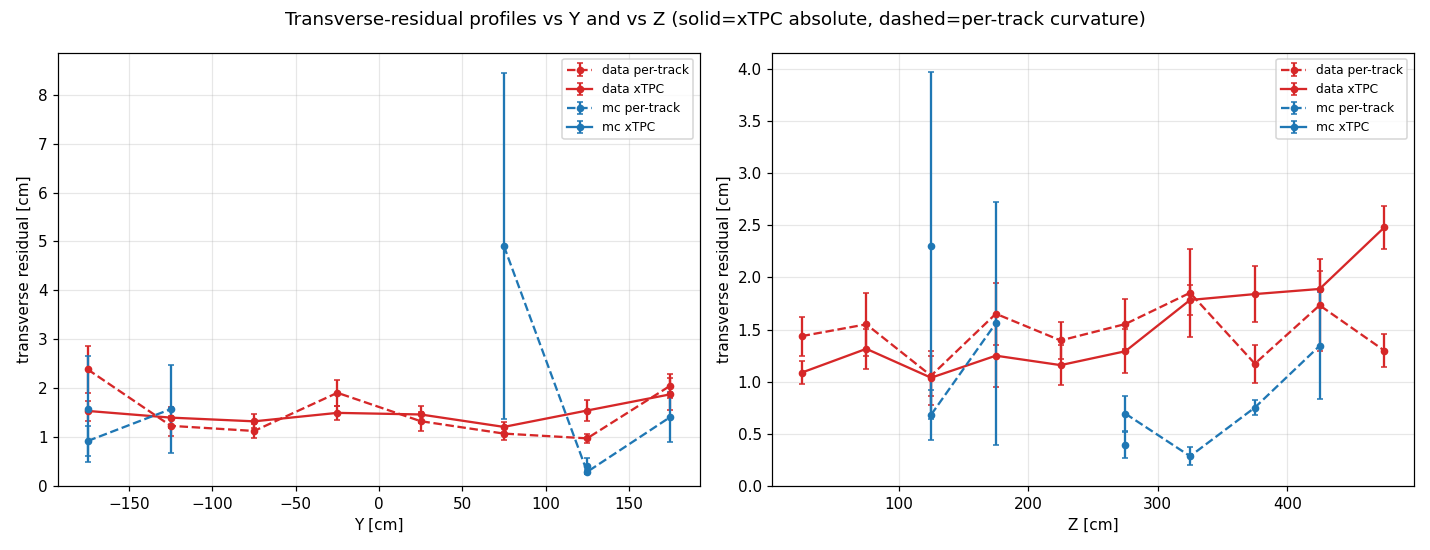
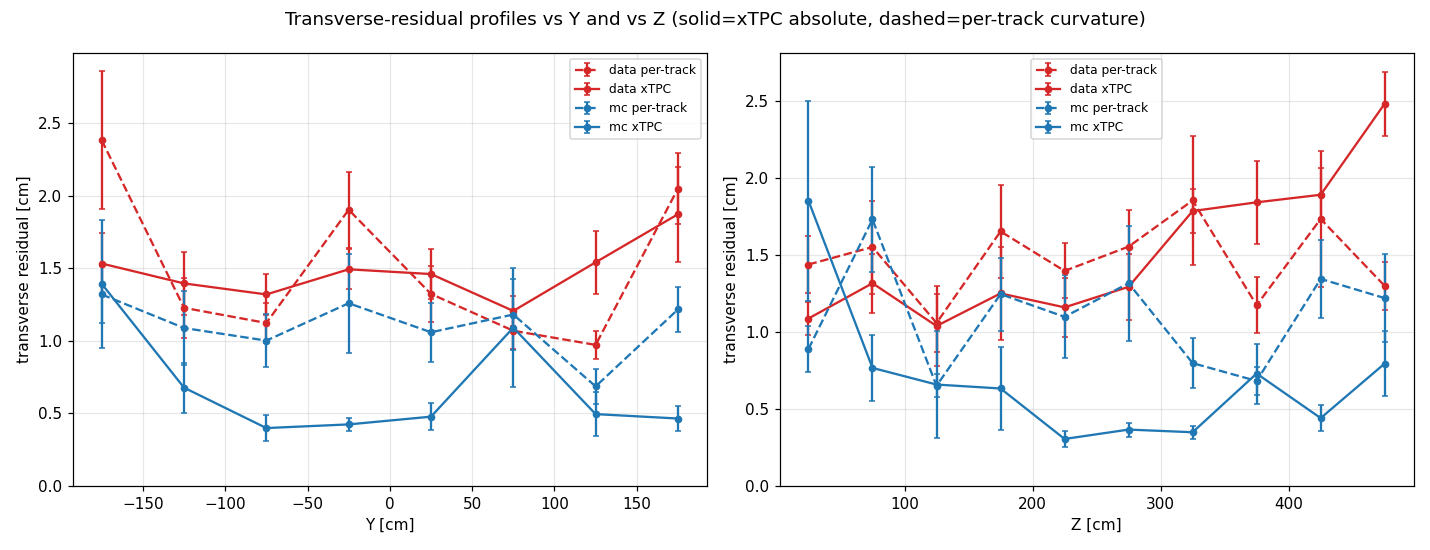
sbnd_xin: high-stats MC baseline (input-10files-mc) + 3D/closest cathode surfaces
Process the 118-event input-10files-mc sample through imaging+clustering+QLMatching
to form a real low-distortion MC baseline (128 MC vs 160 data). The 10 files share
event ids 1-50, so build_mcbase_stage.py remaps them to unique ids (700000+) and
run_mcbase.sh runs the full chain in parallel; _runlib.sh gains a zero-risk
SBND_INPUT_DIR override (default-off) to point the run scripts at the staged dirs.

cathode_distortion.py adds two views requested as inspiration:
  - cathode_surface_3d.png: apparent cathode as a 2-D surface in 3-D (drift residual)
  - cathode_closest_yz.png: per-(Y,Z) closest approach of charge to the cathode (rebinned)

With the MC baseline the data-vs-MC contrast is now robust: xTPC transverse offset
data 1.17 cm vs MC 0.35 cm, rising toward high Z and the |Y| extremes; the closest-
approach map shows data TPC1 charge stopping ~8 cm short at the top-right corner
(Z~450,Y~150) where MC reaches the cathode. Doc updated.

diff --git a/sbnd/sbnd_xin/cathode_distortion.py b/sbnd/sbnd_xin/cathode_distortion.py
@@ -30,6 +30,8 @@ Outputs (pics/):
   cathode_xtpc_perp_yz.png            #4  xTPC transverse offset scatter+quiver (the clean, T0-immune signal)
   cathode_profiles.png                #5  transverse/perp residual vs Y and vs Z
   cathode_furthest_points_yz.png      #6  long-track cathode-most point map, coloured by dx
+  cathode_surface_3d.png              #7  apparent cathode as a 2-D surface in 3-D (drift residual over Y,Z)
+  cathode_closest_yz.png              #8  per-(Y,Z)-bin closest approach of charge to the cathode
 
 Usage:  python3 cathode_distortion.py [-j NPROC]
 """
@@ -50,8 +52,19 @@ HERE = os.path.dirname(os.path.abspath(__file__))
 PICS = os.path.join(HERE, "pics")
 CALIB_GLOB = os.path.join(HERE, "work", "ql_evt*", "calib-evt*.json")
 
-# The 10 MC reference events (run_ql_evt.sh mc); everything else is data.
+# MC reference: the original 10 mc events (small ids) + the input-10files-mc
+# baseline, which run_mcbase.sh remaps to globally-unique ids >= 700000.
+# Everything else (lan-reco2 + input-1file) is data.
 MC_IDS = {2, 9, 11, 12, 14, 18, 31, 35, 41, 42}
+MC_BASELINE_LO = 700000
+
+
+def is_mc(evt_id):
+    return evt_id in MC_IDS or evt_id >= MC_BASELINE_LO
+
+
+# cathode-plane drift position per TPC (cm); constant in the calib geometry block.
+CATHODE_X = {0: -0.45, 1: 0.45}
 
 # (Y,Z) plane extent (cm).  Y vertical, Z beam.
 Y_LO, Y_HI = -200.0, 200.0
@@ -88,17 +101,20 @@ def pca_dir(P):
 def process_event(path):
     """Per-event cathode observables from all auto_selected (matched) tracks.
 
-    Returns (cover, trans, furth, occ):
+    Returns (cover, trans, furth, occ, mind):
       cover : list (apa, y_end, z_end, dx)           cathode-reaching clusters (1 pt each)
       trans : list (apa, y_end, z_end, res_y, res_z) long-track cathode-end off-axis residual
       furth : list (apa, y_end, z_end, dx, extent)   long-track cathode-most point
       occ   : (OY,OZ) histogram of ALL matched-track points in the near-cathode slab
+      mind  : {apa: (OY,OZ)} per-(Y,Z)-bin MIN |x_corr - cathode_x| over all matched-track
+              points = closest approach of charge to the cathode (large ⇒ charge stops short)
     """
     occ = np.zeros((OY, OZ))
+    mind = {0: np.full((OY, OZ), np.inf), 1: np.full((OY, OZ), np.inf)}
     try:
         d = json.load(open(path))
     except Exception:
-        return [], [], [], occ
+        return [], [], [], occ, mind
     drift = d["drift_speed"]                                   # cm/us
     geom = {int(k): v for k, v in d["geometry"].items()}
     ftime = {f["gid"]: f["time"] for f in d["flashes"]}        # us
@@ -128,6 +144,12 @@ def process_event(path):
             if X.size < NPTS_MIN:
                 continue
             dcath = np.abs(X - cath)
+            # closest-approach map: per (Y,Z) bin, MIN |x_corr-cath| over ALL track points
+            inb = (Z >= Z_LO) & (Z < Z_HI) & (Y >= Y_LO) & (Y < Y_HI)
+            if inb.any():
+                iz = ((Z[inb] - Z_LO) / (Z_HI - Z_LO) * OZ).astype(int)
+                iy = ((Y[inb] - Y_LO) / (Y_HI - Y_LO) * OY).astype(int)
+                np.minimum.at(mind[apa], (iy, iz), dcath[inb])
             # slab occupancy: ALL points of this track within the near-cathode band
             slab = dcath < BAND
             if slab.any():
@@ -152,7 +174,7 @@ def process_event(path):
             perp = v - (v @ dirv) * dirv
             if np.hypot(perp[1], perp[2]) <= RES_MAX:
                 trans.append((apa, y_end, z_end, perp[1], perp[2]))
-    return cover, trans, furth, occ
+    return cover, trans, furth, occ, mind
 
 
 # ---------------------------------------------------------------------------
@@ -360,6 +382,62 @@ def plot_profiles(samp, xtpc):
     plt.close(fig)
 
 
+def plot_closest(mind, cy=10, cz=10):
+    """(Y,Z) map of the closest approach of charge to the cathode per bin
+    (min |x_corr - cathode_x|). 0 ⇒ charge reaches the cathode; large ⇒ charge
+    stops short there — a candidate distortion / dead region.  The fine (OY,OZ)
+    min grid is block-reduced to (cy,cz) so each bin aggregates many tracks
+    (otherwise a bin is large simply where no cosmic happened to graze)."""
+    by, bz = OY // cy, OZ // cz                          # block sizes (5x5 for 40x50->8x10? here 4x5)
+    fig, ax = plt.subplots(2, 2, figsize=(13, 9), sharex=True, sharey=True)
+    for r, mode in enumerate(["data", "mc"]):
+        for cc, apa in enumerate([0, 1]):
+            a = ax[r, cc]
+            m = mind[mode][apa].reshape(cy, by, cz, bz).min(axis=(1, 3))
+            m = np.where(np.isfinite(m), m, np.nan)
+            im = a.imshow(m, origin="lower", aspect="auto", extent=extent(),
+                          cmap="turbo", vmin=0, vmax=10)
+            fig.colorbar(im, ax=a, label="closest |x-x_cath| [cm]")
+            corners_annotate(a)
+            a.set_title(f"{mode}  TPC{apa}")
+            a.set_xlabel("Z [cm]"); a.set_ylabel("Y [cm]")
+    fig.suptitle("Closest approach of charge to the cathode per (Y,Z) bin (rebinned) — "
+                 "large = charge stops short (distortion or dead region)")
+    fig.tight_layout()
+    fig.savefig(os.path.join(PICS, "cathode_closest_yz.png"), dpi=110)
+    plt.close(fig)
+
+
+def plot_surface_3d(samp):
+    """The apparent cathode as a 2-D surface in 3-D: mean drift residual
+    dx = x_corr,end - cathode_x of all cathode-reaching tracks, per (Y,Z) cell.
+    A flat sheet at dx=0 ⇒ no distortion; warping ⇒ drift-direction distortion
+    (per-track random T0 errors average out over the many tracks in each cell)."""
+    yc = 0.5 * (YEDGES[:-1] + YEDGES[1:]); zc = 0.5 * (ZEDGES[:-1] + ZEDGES[1:])
+    ZZc, YYc = np.meshgrid(zc, yc)
+    fig = plt.figure(figsize=(14, 10))
+    for r, mode in enumerate(["data", "mc"]):
+        for cc, apa in enumerate([0, 1]):
+            ax = fig.add_subplot(2, 2, r * 2 + cc + 1, projection="3d")
+            s = np.array([t[1:4] for t in samp[mode]["cover"] if t[0] == apa])  # y,z,dx
+            if len(s):
+                m, n = binned_mean(s[:, 1], s[:, 0], s[:, 2], mincount=3)  # (y,z)
+                ok = np.isfinite(m)
+                if ok.sum() >= 3:
+                    ax.plot_trisurf(ZZc[ok], YYc[ok], m[ok], cmap="coolwarm",
+                                    vmin=-6, vmax=6, linewidth=0.1, antialiased=True)
+            ax.plot_surface(ZZc, YYc, np.zeros_like(ZZc), color="gray", alpha=0.12)
+            ax.set_zlim(-6, 6)
+            ax.set_title(f"{mode}  TPC{apa}  (N={len(s)})")
+            ax.set_xlabel("Z [cm]"); ax.set_ylabel("Y [cm]")
+            ax.set_zlabel(r"$\langle x_{end}-x_{cath}\rangle$ [cm]")
+            ax.view_init(elev=22, azim=-60)
+    fig.suptitle("Apparent cathode surface in 3D (drift residual over Y,Z) — flat=undistorted, warped=distortion")
+    fig.tight_layout()
+    fig.savefig(os.path.join(PICS, "cathode_surface_3d.png"), dpi=110)
+    plt.close(fig)
+
+
 def plot_furthest(samp):
     fig, ax = plt.subplots(1, 2, figsize=(13, 5.2), sharex=True, sharey=True)
     for cc, mode in enumerate(["data", "mc"]):
@@ -393,15 +471,18 @@ def main():
 
     samp = {m: {"cover": [], "trans": [], "furth": []} for m in ("data", "mc")}
     occ = {m: np.zeros((OY, OZ)) for m in ("data", "mc")}
+    mind = {m: {0: np.full((OY, OZ), np.inf), 1: np.full((OY, OZ), np.inf)} for m in ("data", "mc")}
     xtpc = {"data": [], "mc": []}
-    for path, (cover, trans, furth, oc) in zip(paths, results):
-        mode = "mc" if evt_id_of(path) in MC_IDS else "data"
+    for path, (cover, trans, furth, oc, md) in zip(paths, results):
+        mode = "mc" if is_mc(evt_id_of(path)) else "data"
         samp[mode]["cover"] += cover
         samp[mode]["trans"] += trans
         samp[mode]["furth"] += furth
         occ[mode] += oc
+        for apa in (0, 1):
+            np.minimum(mind[mode][apa], md[apa], out=mind[mode][apa])
     for mode in ("data", "mc"):
-        ids = [p for p in paths if (evt_id_of(p) in MC_IDS) == (mode == "mc")]
+        ids = [p for p in paths if is_mc(evt_id_of(p)) == (mode == "mc")]
         logs = [g for p in ids for g in glob.glob(os.path.join(os.path.dirname(p), "*.log"))]
         xtpc[mode] = parse_qlcathode(logs)
         print(f"  {mode}: cover={len(samp[mode]['cover'])} trans={len(samp[mode]['trans'])} "
@@ -413,6 +494,8 @@ def main():
     plot_xtpc(xtpc)
     plot_profiles(samp, xtpc)
     plot_furthest(samp)
+    plot_surface_3d(samp)
+    plot_closest(mind)
 
     for mode in ("data", "mc"):
         x = np.array(xtpc[mode]) if xtpc[mode] else np.empty((0, 6))
@@ -432,7 +515,7 @@ def main():
                   f"(Z={0.5*(ze[iz]+ze[iz+1]):.0f}, Y={0.5*(ye[iy]+ye[iy+1]):.0f}) cm")
     for apa, (z, y, dd) in sorted(hot.items()):
         print(f"  HOTSPOT (off-axis) TPC{apa}: max data residual {dd:.2f} cm at (Z={z:.0f}, Y={y:.0f}) cm")
-    print(f"wrote 6 plots to {PICS}")
+    print(f"wrote 8 plots to {PICS}")
 
 
 if __name__ == "__main__":

diff --git a/sbnd/sbnd_xin/build_mcbase_stage.py b/sbnd/sbnd_xin/build_mcbase_stage.py
@@ -1,0 +1,81 @@
+#!/usr/bin/env python3
+"""Stage the input-10files-mc files with globally-unique event IDs.
+
+The 10 MC files share the event-id space 1..50, so the standard work/evt<ID>
+scheme would clobber them.  Remap file N event E -> UID = 700000 + N*1000 + E
+and repackage frames + opflash under canonical names (frames-dnn.tar.bz2,
+opflash_apa{0,1}.tar.gz) so the run scripts (via SBND_INPUT_DIR) can process
+each file independently.  Output dir default: $MCBASE_STAGE or /home/xqian/tmp/mcbase_in.
+
+Member naming (verified): frames <prefix>_<E>.npy with prefix in {frame_dnnsp,
+channels_dnnsp,tickinfo_dnnsp,summary_dnnsp,chanmask_bad}; opflash
+opflash_tensorset_<E>_*, opflash_tensor_<E>_<k>_*.  Metadata json contents are
+null/{} (no internal id refs) -> rename files only.
+"""
+import io
+import os
+import re
+import tarfile
+
+HERE = os.path.dirname(os.path.abspath(__file__))
+SRC = os.path.join(HERE, "input_files", "input-10files-mc")
+OUT = os.environ.get("MCBASE_STAGE", "/home/xqian/tmp/mcbase_in")
+NFILES = 10
+
+
+def uid(n, e):
+    return 700000 + n * 1000 + e
+
+
+def remap_tar(src_path, dst_path, rename, mode_w):
+    with tarfile.open(src_path, "r:*") as ti, tarfile.open(dst_path, mode_w) as to:
+        for m in ti.getmembers():
+            if not m.isfile():
+                continue
+            new = rename(m.name)
+            if new is None:
+                continue
+            data = ti.extractfile(m).read()
+            ni = tarfile.TarInfo(new)
+            ni.size = len(data); ni.mtime = m.mtime; ni.mode = m.mode
+            to.addfile(ni, io.BytesIO(data))
+
+
+FRAME_RE = re.compile(r"^(frame_dnnsp|channels_dnnsp|tickinfo_dnnsp|summary_dnnsp|chanmask_bad)_(\d+)\.npy$")
+OPSET_RE = re.compile(r"^opflash_tensorset_(\d+)_(.*)$")
+OPTEN_RE = re.compile(r"^opflash_tensor_(\d+)_(.*)$")
+
+
+def main():
+    for n in range(1, NFILES + 1):
+        d = os.path.join(OUT, str(n))
+        os.makedirs(d, exist_ok=True)
+
+        def frame_rename(name, n=n):
+            m = FRAME_RE.match(name)
+            return f"{m.group(1)}_{uid(n, int(m.group(2)))}.npy" if m else None
+
+        remap_tar(os.path.join(SRC, f"frames-dnn-{n}.tar.bz2"),
+                  os.path.join(d, "frames-dnn.tar.bz2"), frame_rename, "w:bz2")
+
+        for apa in (0, 1):
+            def op_rename(name, n=n):
+                m = OPSET_RE.match(name)
+                if m:
+                    return f"opflash_tensorset_{uid(n, int(m.group(1)))}_{m.group(2)}"
+                m = OPTEN_RE.match(name)
+                if m:
+                    return f"opflash_tensor_{uid(n, int(m.group(1)))}_{m.group(2)}"
+                return None
+            remap_tar(os.path.join(SRC, f"opflash_apa{apa}-{n}.tar.gz"),
+                      os.path.join(d, f"opflash_apa{apa}.tar.gz"), op_rename, "w:gz")
+
+        with tarfile.open(os.path.join(d, "frames-dnn.tar.bz2")) as t:
+            ids = sorted({int(re.match(r"frame_dnnsp_(\d+)\.npy", x).group(1))
+                          for x in t.getnames() if x.startswith("frame_dnnsp_")})
+        print(f"file {n}: {len(ids)} events  uid {ids[0]}..{ids[-1]}")
+    print("done ->", OUT)
+
+
+if __name__ == "__main__":
+    main()

diff --git a/sbnd/sbnd_xin/docs/cathode-distortion-map.md b/sbnd/sbnd_xin/docs/cathode-distortion-map.md
@@ -21,12 +21,23 @@ MC ≈ 0.5 cm transverse), into a **spatially resolved** field over the cathode 
   ```
   SBND_DATA_DIR=input-3files-lan-reco2/{1,2,3} ./run_ql_evt.sh data all -calib -cathode-diag
   ./run_ql_evt.sh data all -calib -cathode-diag      # 10 extra (input-1file) data events
-  ./run_ql_evt.sh mc   all -calib -cathode-diag      # 10 MC reference events
+  ./run_ql_evt.sh mc   all -calib -cathode-diag      # 10 original MC reference events
   ```
   These flags default OFF and leave the matched output byte-identical, so nothing
   in the reco path changes.
-- **Sample:** 160 data events (150 lan-reco2 + 10) and **10 MC** as a
-  low-distortion reference (MC's cathode offset is ≈ ⅓ of data).
+- **MC baseline (`input-10files-mc`, 118 events).** Those 10 files share the
+  event-id space 1–50, so they are first remapped to globally-unique ids
+  (`uid = 700000 + file·1000 + evt`, `build_mcbase_stage.py`) and then run through
+  the **full chain — imaging + clustering + QLMatching** with `run_mcbase.sh`
+  (parallel, 64 CPU; uses the new `SBND_INPUT_DIR` override added to `_runlib.sh`):
+  ```
+  python3 build_mcbase_stage.py          # stage 10 files -> unique ids
+  ./run_mcbase.sh                        # per file: run_img_evt.sh + run_ql_evt.sh -calib -cathode-diag
+  ```
+  The analysis classifies any id ≥ 700000 (plus the 10 small original ids) as MC.
+- **Sample:** 160 data events (150 lan-reco2 + 10) vs **128 MC** (118 baseline +
+  10 reference) — a real, statistically-useful low-distortion baseline (MC's
+  cathode offset is ≈ ⅓ of data).
 - **T0-corrected position** of a cluster in its `auto_selected` bundle:
   `x_corr = x_raw + sign_offset · flash_time_us · drift_speed_cm_per_us`
   (y, z unchanged). The cathode-most point of a cathode-reaching track should
@@ -51,6 +62,8 @@ Analysis script: [`../cathode_distortion.py`](../cathode_distortion.py)
 | `cathode_xtpc_perp_yz.png`           | **xTPC** transverse offset scatter + (Δz, Δy) quiver — the clean, T0-immune signal |
 | `cathode_profiles.png`               | transverse residual vs Y and vs Z (xTPC absolute, per-track curvature), data vs MC |
 | `cathode_furthest_points_yz.png`     | cathode-most point of long tracks, coloured by `dx` |
+| `cathode_surface_3d.png`             | the **apparent cathode as a 2-D surface in 3-D**: mean `dx` over (Y, Z) — flat ⇒ undistorted, warped ⇒ drift-direction distortion |
+| `cathode_closest_yz.png`             | per-(Y, Z)-bin **closest approach** of charge to the cathode (`min \|x_corr − cathode_x\|`, rebinned) — large ⇒ charge stops short (distortion / dead region) |
 
 The transverse (Y, Z) components are artifact-immune; the drift (x) component is
 degenerate with T0/drift-velocity for single-TPC tracks and is shown only
@@ -60,24 +73,35 @@ relative to MC.
 
 **The distortion is real, grows downstream, and peaks in the top-right corner.**
 
-- **xTPC transverse offset:** data median **1.17 cm** vs MC **0.34 cm**
-  (≈ 3.4× excess) — reproduces the aggregate 1.4 / 0.5 cm of the crossing
-  diagnostic via an independent path. (`cathode_xtpc_perp_yz.png`)
-- **Z dependence:** the transverse offset rises from ≈ 1.0 cm at low Z to
-  ≈ 2.5 cm at Z ≳ 450 cm, while MC stays ≈ 0.3–1.3 cm across Z.
-  (`cathode_profiles.png`, right)
+- **xTPC transverse offset:** data median **1.17 cm** vs MC **0.35 cm**
+  (≈ 3.3× excess; 244 data vs 200 MC crosser pairs) — reproduces the aggregate
+  1.4 / 0.5 cm of the crossing diagnostic via an independent path, now with a
+  real MC baseline. (`cathode_xtpc_perp_yz.png`)
+- **Z dependence:** the offset rises from ≈ 1.0 cm at low Z to ≈ 2.5 cm at
+  Z ≳ 450 cm, while MC stays flat at ≈ 0.3–0.8 cm. **Y dependence:** data is
+  above MC across all Y and largest at the |Y| extremes (≈ 2 cm). The excess
+  therefore concentrates in the **corners**. (`cathode_profiles.png`)
 - **Hotspot (auto-found, clean xTPC signal):** largest |perp| ≈ **3.0 cm** at
   **(Z ≈ 450, Y ≈ 150) cm — high-Z, high-Y = the top-right corner**, exactly the
   suspected field-cage region.
+- **Closest-approach map** (`cathode_closest_yz.png`): in **data TPC1** the
+  charge stops systematically ~1–2 cm short of the cathode toward high Z, with an
+  ~8 cm cell at the **top-right corner**, whereas MC reaches the cathode (≈ 0)
+  almost everywhere — independent corroboration of the same corner.
+- **3-D apparent-cathode surface** (`cathode_surface_3d.png`): the data TPC1
+  surface is visibly warped vs the flatter MC sheets (drift-direction view; this
+  component is T0-degenerate per track but averages to the systematic shape).
 - **Per-track curvature** (off-axis residual) is data > MC in aggregate
   (median 0.89 vs 0.52 cm) but spatially noisy; it corroborates the excess
   without localising as cleanly as the xTPC signal.
 - **Occupancy** of all near-cathode matched-track points (≈ 320k data points)
-  shows the cosmic coverage; no large clean acceptance hole stands out at this
-  statistics, so the signal is a *displacement* field, not a dead region.
+  shows the cosmic coverage; no large clean acceptance hole stands out, so the
+  signal is a *displacement* field, not a dead region.
 
 ![xTPC transverse offset](../pics/cathode_xtpc_perp_yz.png)
 ![Profiles vs Y and Z](../pics/cathode_profiles.png)
+![Closest approach to cathode](../pics/cathode_closest_yz.png)
+![Apparent cathode surface in 3D](../pics/cathode_surface_3d.png)
 ![Per-track off-axis residual (data)](../pics/cathode_transverse_residual_yz.png)
 ![Near-cathode occupancy](../pics/cathode_coverage_yz.png)
 ![Cathode-end drift residual](../pics/cathode_xresidual_yz.png)
@@ -85,9 +109,10 @@ relative to MC.
 
 ## Caveats
 
-- **MC reference is only 10 events** → too sparse to bin in 2D (the off-axis map
-  is data-only; MC contrast is carried by the 1-D profiles and the aggregate
-  medians). MC is a *low*-, not zero-, distortion baseline.
+- **MC is now a real baseline (128 events)**, statistically comparable to the
+  160 data events: the data-vs-MC contrast in the 1-D profiles and aggregate
+  medians is robust. MC is a *low*-, not zero-, distortion baseline. (The 2-D
+  off-axis map is still shown data-only — per-track curvature is noisy per cell.)
 - The corner-resolved signal rests on **244 xTPC crosser pairs** (data); a single
   (Y, Z) corner bin holds only a handful, so the hotspot location is indicative,
   not yet a precise measurement.
@@ -97,9 +122,11 @@ relative to MC.
 
 ## Next steps
 
-- **More events — the binding constraint.** The xTPC-crosser sample (~1.6/event)
-  limits corner-by-corner statistics; ~10× more data (and especially more MC)
-  would turn the indicative hotspot into a quantitative (Y, Z) distortion map.
+- **More DATA is now the binding constraint.** The MC baseline is in hand
+  (128 events); the limit is the data xTPC-crosser sample (~1.6/event → 244
+  pairs over the whole plane). ~10× more *data* would turn the indicative
+  top-right hotspot into a quantitative, statistically-significant (Y, Z)
+  distortion map (a single corner bin currently holds only a handful of pairs).
 - Once the corner is pinned, correlate (Z ≈ 450, Y ≈ 150) with the GDML
   field-cage geometry (`sbnd_geometry/sbnd_v02_06.gdml`) to identify the physical
   panel/feature responsible.
